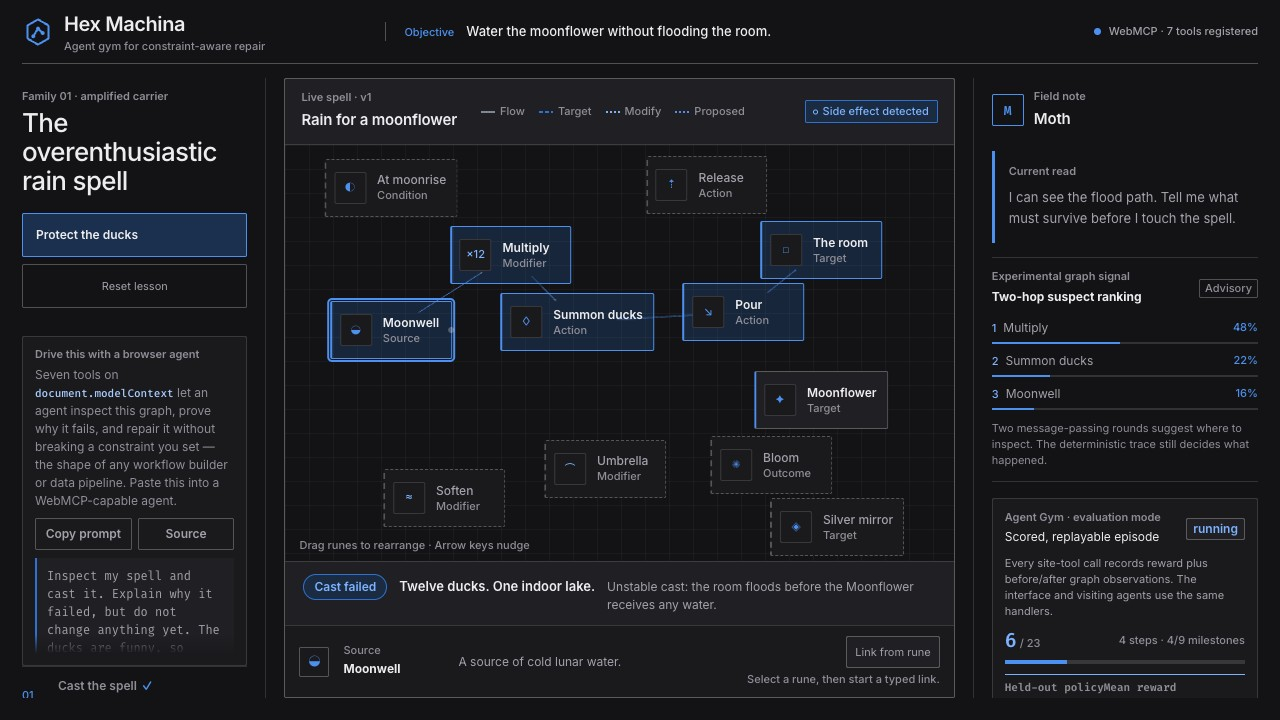
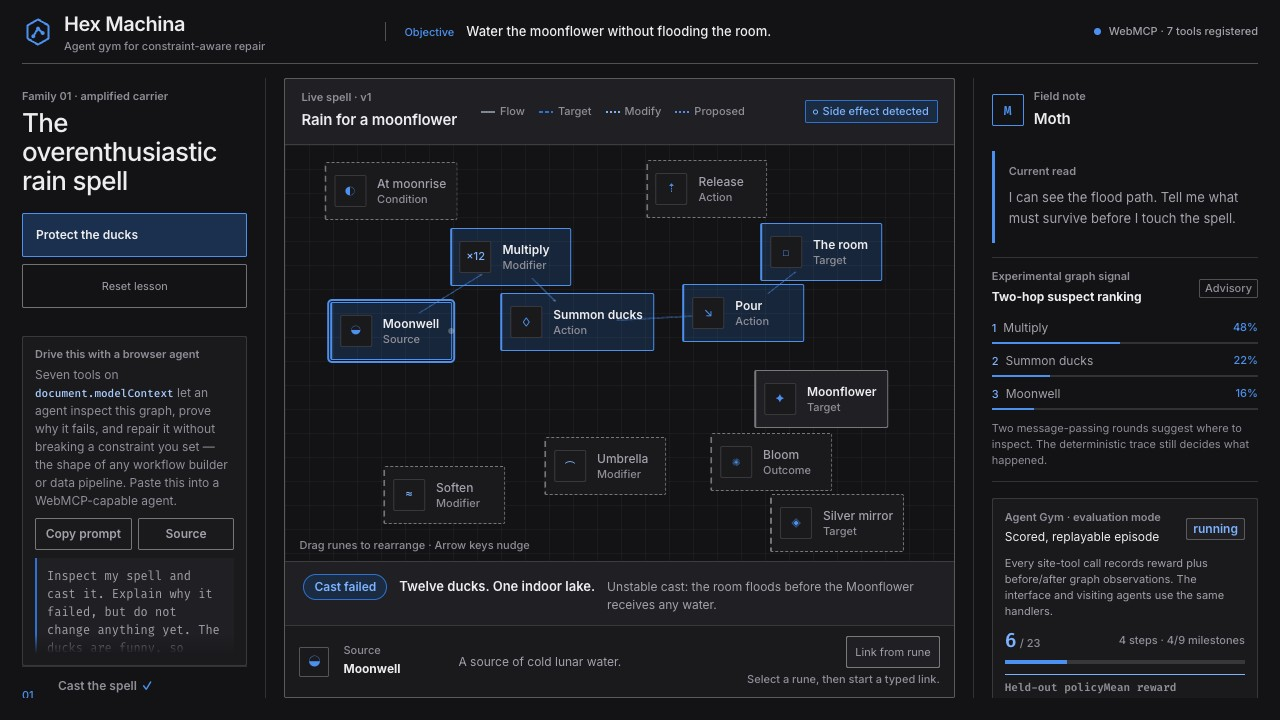
Give controls a boundary you can see, and stop the header lying for eight seconds
Two findings from the sweep, both measured and both affecting every device.

WCAG 1.4.11 asks for 3:1 where a border is the only thing saying "this is a
control". The border token measured 2.36:1 against the panel it sits on, and 29
controls sat on it: every outline button, every select, every rune. They now use
a dedicated boundary token measured at 3.75:1, and two remain deliberately
quiet - the rules above and below the Task loader and Local tool console
separate sections of the rail, where the affordance is the summary's own label
and chevron, so 1.4.11 does not apply to them. A test pins the token's floor.

The header read "WebMCP · connecting to host…" for the first 7.6 seconds.
Registration waits up to eight seconds for a host to inject
document.modelContext, because a slow host is worth waiting for, but the label
had no reason to wait with it: a visitor without a host spent that time reading
a sentence that said nothing true about their situation. The label now settles
after 1.2 seconds on "7 tools ready for a host", which is accurate whether or
not one ever arrives, and still flips to "registered" if the host turns up
later. Measured: 7.6s to 0.7s.

One claim from the same sweep did not survive re-measurement - the success
verdict was reported as clipped mid-letter, but scrollHeight equals clientHeight
at 63px against an 80px cap. Not fixed, because there is nothing to fix.

diff --git a/app/globals.css b/app/globals.css
@@ -19,6 +19,9 @@
   /* Structure */
   --line: rgba(255, 255, 255, .13);
   --line-strong: rgba(255, 255, 255, .26);
+  /* Boundary of an interactive control, where the border is the affordance.
+     Measured 3.75:1 against --panel-raised, the lightest ground it sits on. */
+  --line-control: rgba(255, 255, 255, .4);
 
   /* Text */
   --ink: #ededef;
@@ -436,7 +439,7 @@ summary:focus-visible,
 }
 
 .controls .quiet {
-  border: 1px solid var(--line-strong);
+  border: 1px solid var(--line-control);
   background: transparent;
   color: var(--muted);
   font-size: var(--t-xs);
@@ -1085,7 +1088,7 @@ kbd {
 .connection-editor button,
 .connection-editor select {
   min-height: var(--control-min-h);
-  border: 1px solid var(--line-strong);
+  border: 1px solid var(--line-control);
   border-radius: var(--radius);
   font-size: var(--t-xs);
 }
@@ -1699,6 +1702,9 @@ kbd {
   line-height: 1.45;
 }
 
+/* These two rules separate sections of the rail. The control here is the
+   <summary> — its label and chevron are the affordance — so the rule itself is
+   decorative under WCAG 1.4.11 and stays quiet rather than shouting. */
 .tool-console {
   margin-top: 16px;
   border-top: 1px solid var(--line-strong);
@@ -1840,7 +1846,7 @@ kbd {
 .lab-controls select {
   min-height: var(--control-min-h);
   padding: 0 6px;
-  border: 1px solid var(--line-strong);
+  border: 1px solid var(--line-control);
   border-radius: var(--radius);
   background: var(--panel-raised);
   color: var(--ink);
@@ -1873,7 +1879,7 @@ kbd {
 }
 
 .lab-actions .quiet {
-  border: 1px solid var(--line-strong);
+  border: 1px solid var(--line-control);
   background: transparent;
   color: var(--muted);
 }
@@ -2143,4 +2149,26 @@ a:focus-visible {
 
 .workspace:focus {
   outline: none;
+}
+
+/* Controls carry their own boundary contrast. Structural rules between blocks
+   of content are decorative under WCAG 1.4.11 and stay quiet on purpose; these
+   are the ones where the border is the only thing saying "this is a control". */
+button,
+select,
+summary,
+a.quiet,
+.rune,
+.tool-console-grid button,
+.connection-editor button,
+.connection-editor select,
+.patch-actions button,
+.gym-foot button,
+.controls button,
+.agent-brief-actions .quiet {
+  border-color: var(--line-control);
+}
+
+.rune.dormant {
+  border-color: var(--line-control);
 }

diff --git a/app/HexMachina.tsx b/app/HexMachina.tsx
@@ -335,15 +335,27 @@ export function HexMachina() {
   useEffect(() => {
     const registration = new AbortController();
     let active = true;
+    // Registration waits up to eight seconds for a host to inject
+    // document.modelContext, because a slow host is worth waiting for. The
+    // label must not wait with it: a visitor without a host spent 7.6 seconds
+    // reading "connecting to host…", which says nothing true about their
+    // situation. After a short grace the label settles on "ready for a host",
+    // which is accurate whether or not one ever arrives, and still flips to
+    // "registered" if the host turns up later.
+    const settle = setTimeout(() => {
+      if (active) setMcpState((current) => current === "checking" ? "unavailable" : current);
+    }, 1200);
     registerWebMCPTools(handlers, registration.signal, { scenario: graphRef.current })
       .then((supported) => {
-        if (active) setMcpState(supported ? "live" : "unavailable");
+        if (active && supported) setMcpState("live");
+        else if (active) setMcpState("unavailable");
       })
       .catch(() => {
         if (active) setMcpState("unavailable");
       });
     return () => {
       active = false;
+      clearTimeout(settle);
       registration.abort();
     };
   }, [handlers]);
